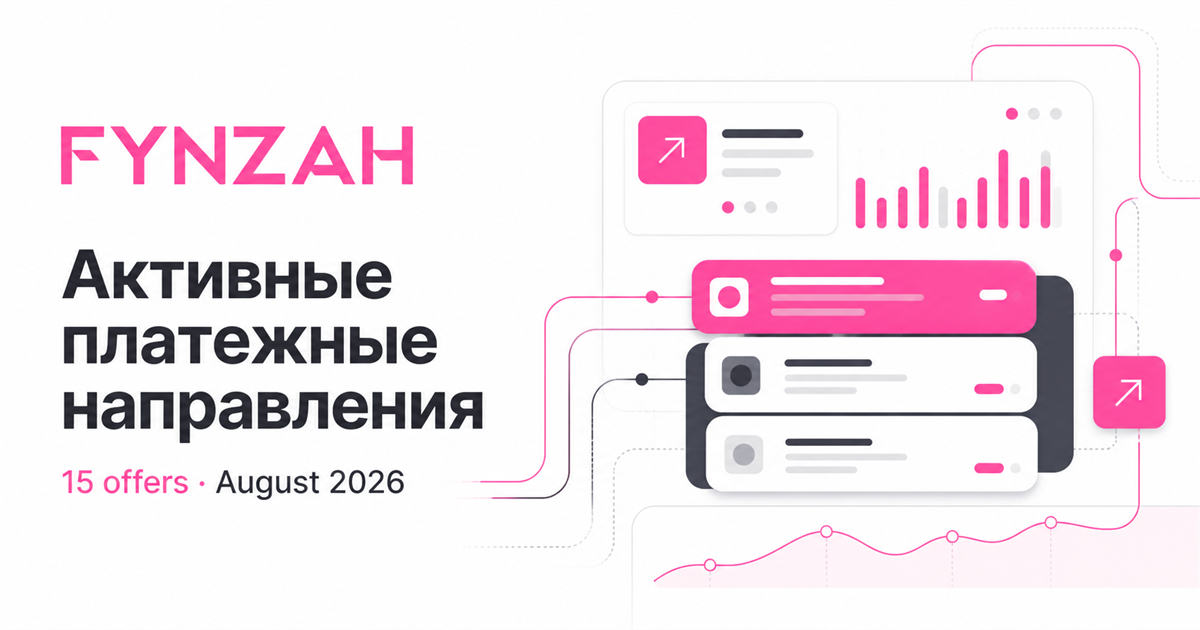
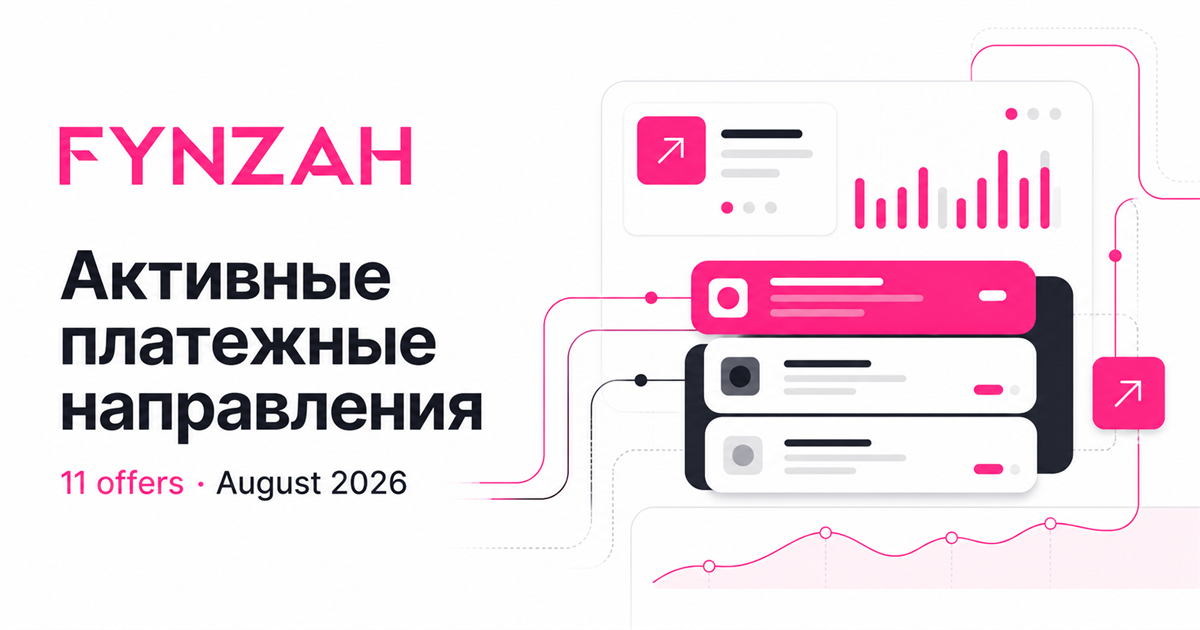
Align landing with current offers

diff --git a/app/page.tsx b/app/page.tsx
@@ -2,58 +2,44 @@
 
 import { useState } from 'react';
 
-type Category = 'all' | 'russia' | 'cis' | 'caucasus' | 'asia';
+type Category = 'all' | 'russia' | 'cross-border';
 
 const offers = [
-  { category:'russia', geo:'Russia', flag:'ru', code:'RU · 01', title:'C2C / SBP / Cards', description:'Основной RUB flow для Gambling, Betting и Exchange. Банки T1–T3.', rate:'9–12%', meta:['RUB','Pay-in','Live'], tone:'pink' },
-  { category:'russia', geo:'Russia', flag:'ru', code:'RU · 02', title:'PDF receipt flow', description:'SBP и карты с подтверждением платежа через PDF receipt.', rate:'10–12%', meta:['1k–200k','Exchange','Priority'], tone:'black' },
-  { category:'russia', geo:'Russia', flag:'ru', code:'RU · 03', title:'NSPK QR Multitransfer', description:'QR-оплата с поддержкой мультипереводов и высоким лимитом.', rate:'13%', meta:['up to 200k','QR','Live'], tone:'yellow' },
-  { category:'russia', geo:'Russia', flag:'ru', code:'RU · 04', title:'PSB', description:'Прямой RUB pay-in маршрут под актуальный high-risk трафик.', rate:'12%', meta:['RUB','Pay-in','Live'], tone:'gray' },
-  { category:'russia', geo:'Russia', flag:'ru', code:'RU · 05', title:'Mobile Commerce', description:'Оплата с мобильного баланса под текущие приоритеты.', rate:'up to 23%', meta:['RUB','MobCom','Priority'], tone:'pink' },
-  { category:'russia', geo:'Russia / KZ', flag:'ru+kz', code:'RU · 06', title:'Bank Transfer', description:'BT-маршрут для RUB и KZT с гибким распределением трафика.', rate:'18–21%', meta:['RUB / KZT','BT','Live'], tone:'black' },
-  { category:'cis', geo:'Tajikistan', flag:'tj', code:'CIS · 01', title:'Alfa SBP / YouMoney', description:'Локальный маршрут для приема платежей в Таджикистане.', rate:'8–12%', meta:['Pay-in','Local','Live'], tone:'yellow' },
-  { category:'cis', geo:'Uzbekistan', flag:'uz', code:'CIS · 02', title:'UZCARD / HUMO', description:'Локальные карты и transgran для платежей в Узбекистане.', rate:'contact us', meta:['UZS','Cards','Contact us'], tone:'gray' },
-  { category:'cis', geo:'Kazakhstan', flag:'kz', code:'CIS · 03', title:'KZT P2P', description:'Классический P2P flow в тенге с рабочими лимитами.', rate:'7.5–9.5%', meta:['KZT','P2P','Live'], tone:'pink' },
-  { category:'cis', geo:'Kyrgyzstan', flag:'kg', code:'CIS · 04', title:'MBANK ELQR', description:'Двусторонний локальный маршрут через MBANK ELQR.', rate:'5% / 1%', meta:['Pay-in / out','KGS','Live'], tone:'black' },
-  { category:'caucasus', geo:'Armenia', flag:'am', code:'CAU · 01', title:'KZT → AMD', description:'Cross-border конверсия KZT в армянский драм.', rate:'contact us', meta:['AMD','Cross-border','Contact us'], tone:'yellow' },
-  { category:'caucasus', geo:'Georgia', flag:'ge', code:'CAU · 02', title:'KZT → GEL', description:'Cross-border конверсия KZT в грузинский лари.', rate:'contact us', meta:['GEL','Cross-border','Contact us'], tone:'gray' },
-  { category:'caucasus', geo:'Abkhazia', flag:'abkhazia', code:'CAU · 03', title:'RUB local flow', description:'Прямой RUB pay-in с лимитами от 1k до 150k.', rate:'10.5%', meta:['1k–150k','RUB','Live'], tone:'pink' },
-  { category:'asia', geo:'Vietnam', flag:'vn', code:'ASIA · 01', title:'QR Sber / VTB', description:'Cross-border QR с минимальным платежом от 100 RUB.', rate:'5–11%', meta:['min 100 RUB','QR','Live'], tone:'black' },
-  { category:'asia', geo:'Azerbaijan', flag:'az', code:'ASIA · 02', title:'AZN P2P / QECOM', description:'Два локальных сценария приема платежей в манатах.', rate:'5.5% / 7%', meta:['AZN','In / out','Live'], tone:'yellow' },
+  { category:'russia', geo:'Russia', flag:'ru', code:'RU · 01', title:'C2C / SBP / Cards', description:'Основной RUB pay-in для Gambling, Betting и Exchange. Банки T1–T3.', rate:'9–11.5%', meta:['5k–150k','RUB','GB / BT / EX'], tone:'pink' },
+  { category:'russia', geo:'Russia', flag:'ru', code:'RU · 02', title:'SBP / Cards + PDF', description:'Прием по номеру карты и СБП с подтверждением через PDF-чек.', rate:'10–12%', meta:['1k–200k','RUB','PDF receipt'], tone:'black' },
+  { category:'russia', geo:'Russia', flag:'ru', code:'RU · 03', title:'NSPK Multitransfer', description:'QR НСПК с поддержкой мультипереводов и высоким лимитом.', rate:'13%', meta:['3k–200k','QR','H2H'], tone:'yellow' },
+  { category:'russia', geo:'Russia', flag:'ru', code:'RU · 04', title:'Sber / Gazprom QR', description:'Внутрибанковские QR-маршруты Сбер–Сбер и Газпром–Газпром.', rate:'12.5%', meta:['100–150k','QR','GB / BT'], tone:'gray' },
+  { category:'russia', geo:'Russia', flag:'ru', code:'RU · 05', title:'PSB Ecom', description:'Прямой RUB pay-in через ПСБ для Gambling и Betting трафика.', rate:'12%', meta:['1k–150k','RUB','Pay-in'], tone:'pink' },
+  { category:'russia', geo:'Russia', flag:'ru', code:'RU · 06', title:'Alfa → Alfa', description:'Внутрибанковский перевод для Gambling и Betting трафика.', rate:'8.5%', meta:['10k–150k','RUB','Pay-in'], tone:'black' },
+  { category:'russia', geo:'Russia', flag:'ru', code:'RU · 07', title:'C2C / SBP · Betting', description:'Отдельный pay-in маршрут по номеру карты и СБП для Betting.', rate:'6%', meta:['RUB','Betting','Contact us'], tone:'yellow' },
+  { category:'cross-border', geo:'Russia / Vietnam', flag:'ru+vn', code:'XBD · 01', title:'Sber / VTB QR', description:'Cross-border QR через Сбербанк и ВТБ с расчетом в RUB.', rate:'5–11%', meta:['100–150k','RUB','GB / BT'], tone:'gray' },
+  { category:'cross-border', geo:'Russia / Tajikistan', flag:'ru+tj', code:'XBD · 02', title:'YouMoney', description:'Cross-border прием через YouMoney с расчетом в RUB.', rate:'8–10.5%', meta:['1k–150k','RUB','Pay-in'], tone:'pink' },
+  { category:'cross-border', geo:'Russia / Abkhazia', flag:'ru+abkhazia', code:'XBD · 03', title:'Transgran Abkhazia', description:'Cross-border RUB-маршрут через трансграничный перевод.', rate:'10.5%', meta:['1k–150k','RUB','Pay-in'], tone:'black' },
+  { category:'cross-border', geo:'Kazakhstan', flag:'kz', code:'XBD · 04', title:'KZT P2P', description:'Cross-border P2P-направление с расчетом в тенге.', rate:'contact us', meta:['KZT','P2P','Contact us'], tone:'yellow' },
 ] as const;
 
 const filters: { id: Category; label: string }[] = [
-  { id:'all', label:'Все · 15' },
-  { id:'russia', label:'Россия · 6' },
-  { id:'cis', label:'CIS · 4' },
-  { id:'caucasus', label:'Кавказ · 3' },
-  { id:'asia', label:'Азия · 2' },
+  { id:'all', label:'Все · 11' },
+  { id:'russia', label:'Россия · 7' },
+  { id:'cross-border', label:'Cross-border · 4' },
 ];
 
 const solutions = [
-  { code:'PDF', title:'SBP / Cards + PDF', text:'RUB pay-in под Exchange / GB. 1k–200k, ставка 10–12%.', tags:['Exchange','GB','RUB'] },
-  { code:'QR', title:'NSPK Multitransfer', text:'QR-оплата с мультипереводами и лимитом до 200k.', tags:['QR payment','13%','Live'] },
-  { code:'GEO', title:'QR Vietnam', text:'Сбер / ВТБ QR, минимум 100 RUB, ставки от 5%.', tags:['Vietnam','Multi-geo','QR'] },
-  { code:'C2C', title:'C2C / SBP classic', text:'Основной RUB flow: карты, SBP и банки T1–T3.', tags:['Cards','SBP','T1–T3'] },
-  { code:'MOB', title:'Mobile Commerce / BT', text:'Мобком до 23%, BT RUB/KZT по текущим приоритетам.', tags:['RUB','KZT','Up to 23%'] },
-  { code:'OUT', title:'Payout / In+Out', text:'Доступно на части GEO: AZ, KG, KZ и RUB-flow.', tags:['Pay-in','Payout','Multi-geo'] },
+  { code:'C2C', title:'C2C / SBP classic', text:'Основной RUB flow: карты, СБП и банки T1–T3.', tags:['5k–150k','9–11.5%','RUB'] },
+  { code:'PDF', title:'SBP / Cards + PDF', text:'RUB pay-in с PDF-чеками, лимиты до 200k.', tags:['1k–200k','10–12%','Exchange / GB'] },
+  { code:'NSP', title:'NSPK Multitransfer', text:'QR-оплата с мультипереводами и лимитом до 200k.', tags:['QR payment','13%','H2H'] },
+  { code:'BNK', title:'Bank-to-bank QR', text:'Сбер–Сбер и Газпром–Газпром с единой ставкой.', tags:['100–150k','12.5%','RUB'] },
+  { code:'VNM', title:'QR Vietnam', text:'Сбер / ВТБ QR, минимум 100 RUB, ставки от 5%.', tags:['Vietnam','5–11%','Cross-border'] },
+  { code:'XBD', title:'Cross-border routes', text:'YouMoney Tajikistan, Abkhazia transgran и Kazakhstan P2P.', tags:['TJ','AB','KZ'] },
 ];
 
 const terms = [
-  { number:'01', label:'Settlement', value:'Rapira / USDT', text:'В основном T+0, отдельные маршруты T+1.' },
-  { number:'02', label:'Fees', value:'0–5 USDT', text:'Финальная комиссия зависит от маршрута.' },
-  { number:'03', label:'Integration', value:'H2H / link', text:'Также доступна готовая payment page.' },
+  { number:'01', label:'Settlement', value:'Rapira / USDT', text:'Settlement period T+0 на предоставленных маршрутах.' },
+  { number:'02', label:'Fees', value:'By route', text:'0 USDT указан для отдельного НСПК-маршрута.' },
+  { number:'03', label:'Integration', value:'H2H / link', text:'Часть маршрутов доступна только по H2H.' },
   { number:'04', label:'Traffic', value:'GB / BT / EX', text:'Gambling, Betting и Exchange.' },
-  { number:'05', label:'Quality', value:'FTD / STD / TD', text:'Включая trusted traffic.' },
+  { number:'05', label:'Appeals', value:'API', text:'Апелляции по API доступны на актуальных маршрутах.' },
   { number:'06', label:'Availability', value:'Live check', text:'Зависит от провайдера и качества трафика.' },
-];
-
-const wantedGeos = [
-  { code:'KR', flag:'kr', region:'Asia', title:'Южная Корея', currency:'KRW', text:'Ищем локальные pay-in / payout решения и партнеров для high-risk вертикалей.', tags:['Local methods','In / out'], tone:'pink' },
-  { code:'KE', flag:'ke', region:'Africa', title:'Кения', currency:'KES', text:'В поиске mobile money, M-Pesa и локальных банковских маршрутов.', tags:['Mobile money','Bank transfer'], tone:'black' },
-  { code:'AR', flag:'ar', region:'LATAM', title:'Аргентина', currency:'ARS', text:'Ищем P2P, bank transfer и локальные платежные кошельки.', tags:['P2P','Local wallets'], tone:'yellow' },
-  { code:'ET', flag:'et', region:'Africa', title:'Эфиопия', currency:'ETB', text:'Нужны mobile money и локальные pay-in / payout решения.', tags:['Mobile money','In / out'], tone:'pink' },
-  { code:'TR', flag:'tr', region:'MENA', title:'Турция', currency:'TRY', text:'Ищем local cards, bank transfer и платежные кошельки.', tags:['Local cards','Bank transfer'], tone:'black' },
 ];
 
 export default function Home() {
@@ -66,7 +52,6 @@ export default function Home() {
         <a className="brand" href="#top" aria-label="Fynzah — наверх">fynzah<span>.</span></a>
         <nav aria-label="Основная навигация">
           <a href="#offers">Офферы</a>
-          <a href="#wanted">В поиске</a>
           <a href="#solutions">Решения</a>
           <a href="#terms">Условия</a>
         </nav>
@@ -78,9 +63,9 @@ export default function Home() {
 
       <section className="hero shell">
         <div className="hero-copy">
-          <div className="live-label"><i /> 15 ACTIVE OFFERS</div>
+          <div className="live-label"><i /> 11 ACTIVE OFFERS</div>
           <h1>Платежные<br />офферы <em>без границ.</em></h1>
-          <p>Рабочие pay-in и payout решения для Gambling, Betting и Exchange по России, СНГ, Кавказу и Азии.</p>
+          <p>Актуальные pay-in решения для Gambling, Betting и Exchange по России и cross-border направлениям.</p>
           <div className="hero-actions">
             <a className="button button-pink" href="#offers">Смотреть офферы <span>↓</span></a>
             <a className="button button-gray" href="#contact">Обсудить подключение</a>
@@ -90,9 +75,9 @@ export default function Home() {
           <div className="product-glow" />
           <div className="product-card">
             <div className="product-head"><span className="f-mark">F</span><small>ROUTE CONTROL</small><b>LIVE</b></div>
-            <div className="product-stat"><span>Active routes</span><strong>15</strong><em>4 regions</em></div>
+            <div className="product-stat"><span>Active routes</span><strong>11</strong><em>5 GEO</em></div>
             <div className="product-bars">{[42,67,51,79,63,96,72,88,58,100].map((height,index) => <i key={index} style={{height:`${height}%`}} />)}</div>
-            <div className="product-foot"><span><small>RUB</small><b>9–23%</b></span><span><small>SETTLE</small><b>T+0</b></span><span><small>FEES</small><b>0–5 USDT</b></span></div>
+            <div className="product-foot"><span><small>RUB</small><b>5–13%</b></span><span><small>SETTLE</small><b>T+0</b></span><span><small>FEES</small><b>BY ROUTE</b></span></div>
           </div>
           <div className="float-note note-one"><span>↗</span><div><small>NSPK QR</small><b>up to 200k</b></div></div>
           <div className="float-note note-two"><span>✓</span><div><small>Settlement</small><b>Rapira / USDT</b></div></div>
@@ -100,7 +85,7 @@ export default function Home() {
       </section>
 
       <section className="vertical-band">
-        <div className="shell vertical-inner"><p>Built for</p><strong>Gambling</strong><i /><strong>Betting</strong><i /><strong>Exchange</strong><span>FTD · STD · TD · TRUSTED</span></div>
+        <div className="shell vertical-inner"><p>Built for</p><strong>Gambling</strong><i /><strong>Betting</strong><i /><strong>Exchange</strong><span>H2H · LINK · API APPEALS</span></div>
       </section>
 
       <section className="offers shell" id="offers">
@@ -121,24 +106,6 @@ export default function Home() {
               <div className="tag-row">{offer.meta.map((tag) => <span key={tag}>{tag}</span>)}</div>
             </article>
           ))}
-        </div>
-      </section>
-
-      <section className="wanted" id="wanted">
-        <div className="shell">
-          <div className="section-title wanted-title">
-            <div><p>CONTACT US · НОВЫЕ GEO</p><h2>Направления,<br />которые мы ищем.</h2></div>
-            <p>Открыты к предложениям от провайдеров и команд с работающей локальной инфраструктурой.</p>
-          </div>
-          <div className="wanted-grid">
-            {wantedGeos.map((geo) => (
-              <article className={`wanted-card wanted-${geo.tone}`} key={geo.code}>
-                <div className="wanted-head"><span><i className={`fi fi-${geo.flag}`} aria-hidden="true" /><small>{geo.code}</small></span><b><i /> SCOUTING</b></div>
-                <div className="wanted-geo"><small>{geo.region} · {geo.currency}</small><h3>{geo.title}</h3><p>{geo.text}</p></div>
-                <div className="wanted-bottom"><div className="tag-row">{geo.tags.map((tag) => <span key={tag}>{tag}</span>)}</div><b>CONTACT US ↗</b></div>
-              </article>
-            ))}
-          </div>
         </div>
       </section>
 
@@ -173,7 +140,7 @@ export default function Home() {
       <section className="cta shell" id="contact">
         <div className="cta-copy"><p>READY TO START?</p><h2>Давайте подберем<br />рабочий маршрут.</h2><span>Пришлите GEO, вертикаль, дневной объем и тип трафика — вернемся с доступностью и финальными условиями.</span></div>
         <div className="cta-actions"><a className="button button-black" href="https://t.me/psp_coo" target="_blank" rel="noreferrer">Написать в Telegram <span>↗</span></a><a className="button button-white" href="mailto:info@fynzah.com">info@fynzah.com</a></div>
-        <div className="cta-orbit" aria-hidden="true"><strong>15</strong><small>ACTIVE<br />OFFERS</small></div>
+        <div className="cta-orbit" aria-hidden="true"><strong>11</strong><small>ACTIVE<br />OFFERS</small></div>
       </section>
 
       <footer className="site-footer shell"><a className="brand" href="#top">fynzah<span>.</span></a><p>Payment routes · August 2026</p><span>© Fynzah 2024–2026</span></footer>

diff --git a/app/layout.tsx b/app/layout.tsx
@@ -20,18 +20,18 @@ export const metadata: Metadata = {
   ),
   title: 'Fynzah — платежные офферы без границ · August 2026',
   description:
-    '15 рабочих pay-in и payout офферов для Gambling, Betting и Exchange по России, СНГ, Кавказу и Азии.',
+    '11 актуальных pay-in офферов для Gambling, Betting и Exchange по России и cross-border направлениям.',
   openGraph: {
     title: 'Fynzah — платежные офферы без границ',
     description:
-      '15 рабочих pay-in и payout офферов · August 2026.',
+      '11 актуальных pay-in офферов · August 2026.',
     images: [{ url: '/og.png', width: 1200, height: 630 }],
   },
   twitter: {
     card: 'summary_large_image',
     title: 'Fynzah — платежные офферы без границ',
     description:
-      '15 рабочих pay-in и payout офферов · August 2026.',
+      '11 актуальных pay-in офферов · August 2026.',
     images: ['/og.png'],
   },
 };
